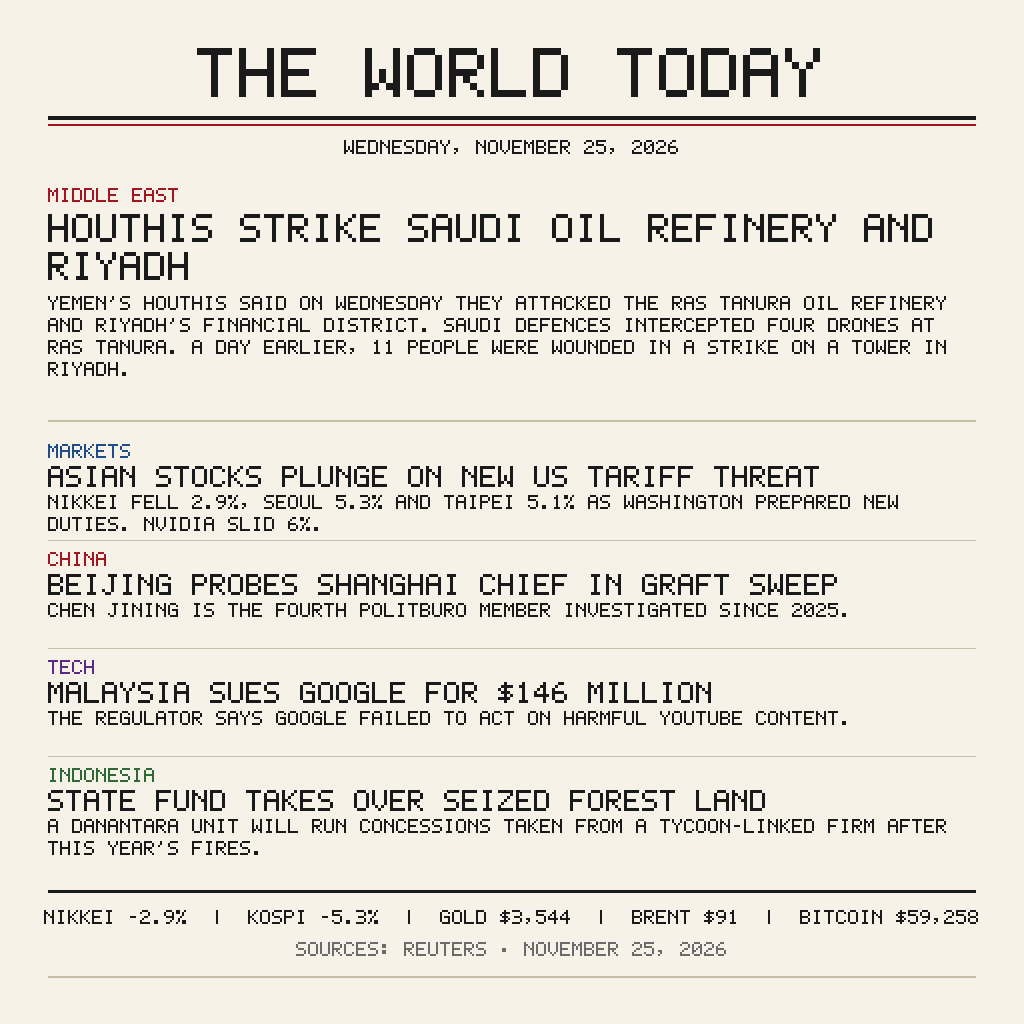
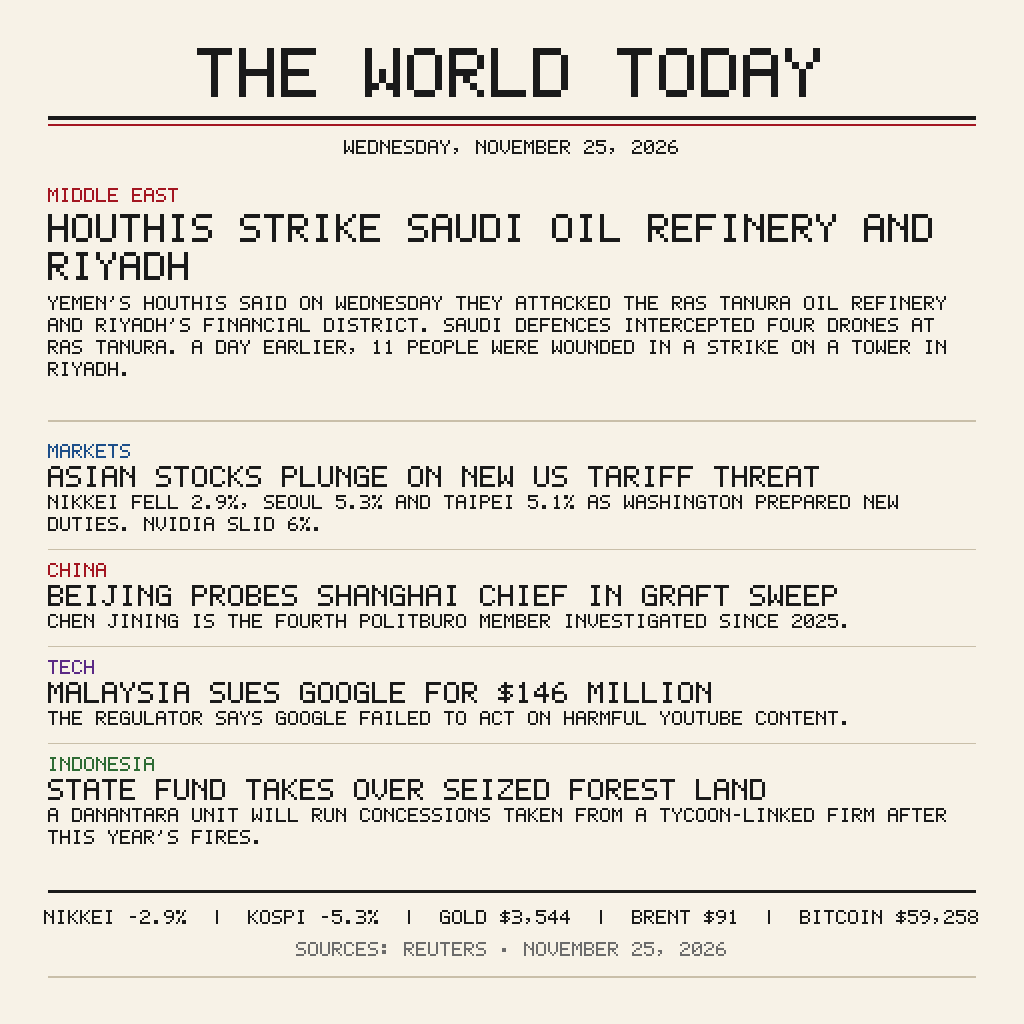
The World Today - 25 November 2026 (layout polish)

Changed region(s): [[0.0312, 0.7188, 0.9375, 0.8438], [0.0312, 0.5312, 0.8125, 0.625]]

diff --git a/main.ts b/main.ts
@@ -241,8 +241,10 @@ for (let i = 0; i < STORIES.length; i++) {
     drawText(line, MX, by, 2, INK);
     by += 22;
   }
-  sy += 108;
-  if (i < STORIES.length - 1) rect(MX, sy - 12, CW, 1, RULE);
+  if (i < STORIES.length - 1) {
+    rect(MX, by + 10, CW, 1, RULE);
+    sy = by + 24;
+  }
 }
 
 // Bottom: markets strip + footer
